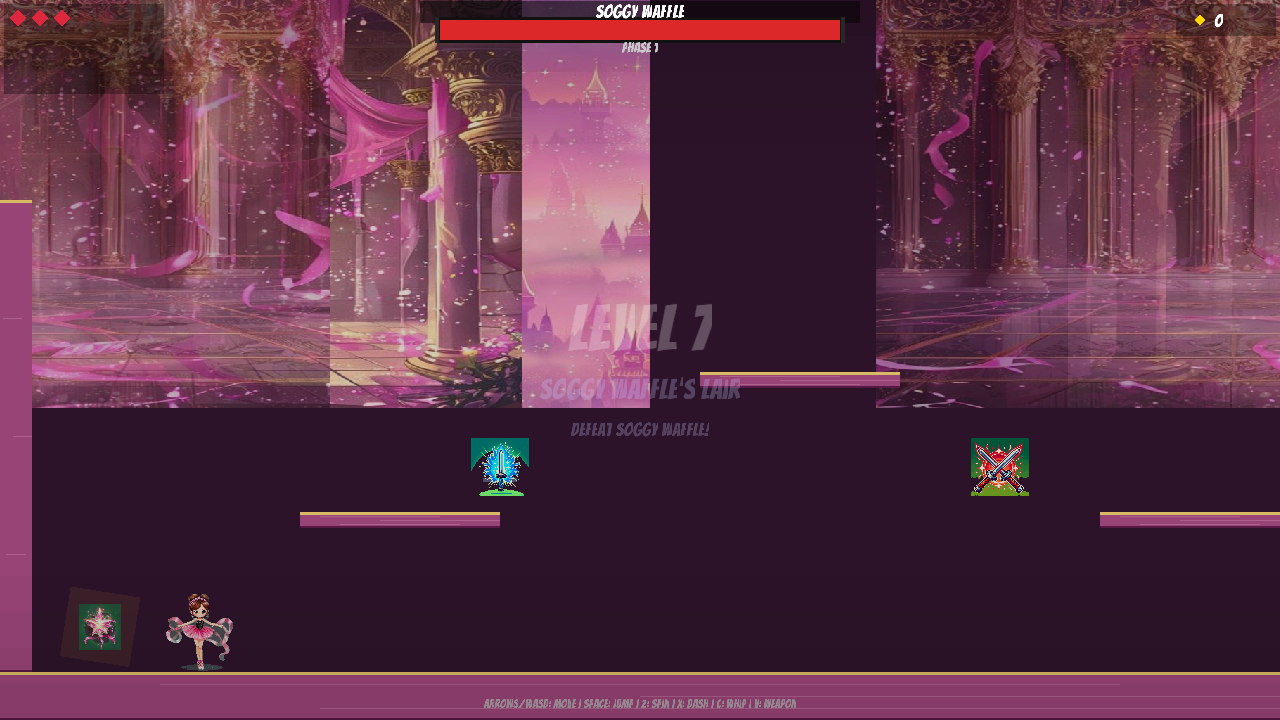
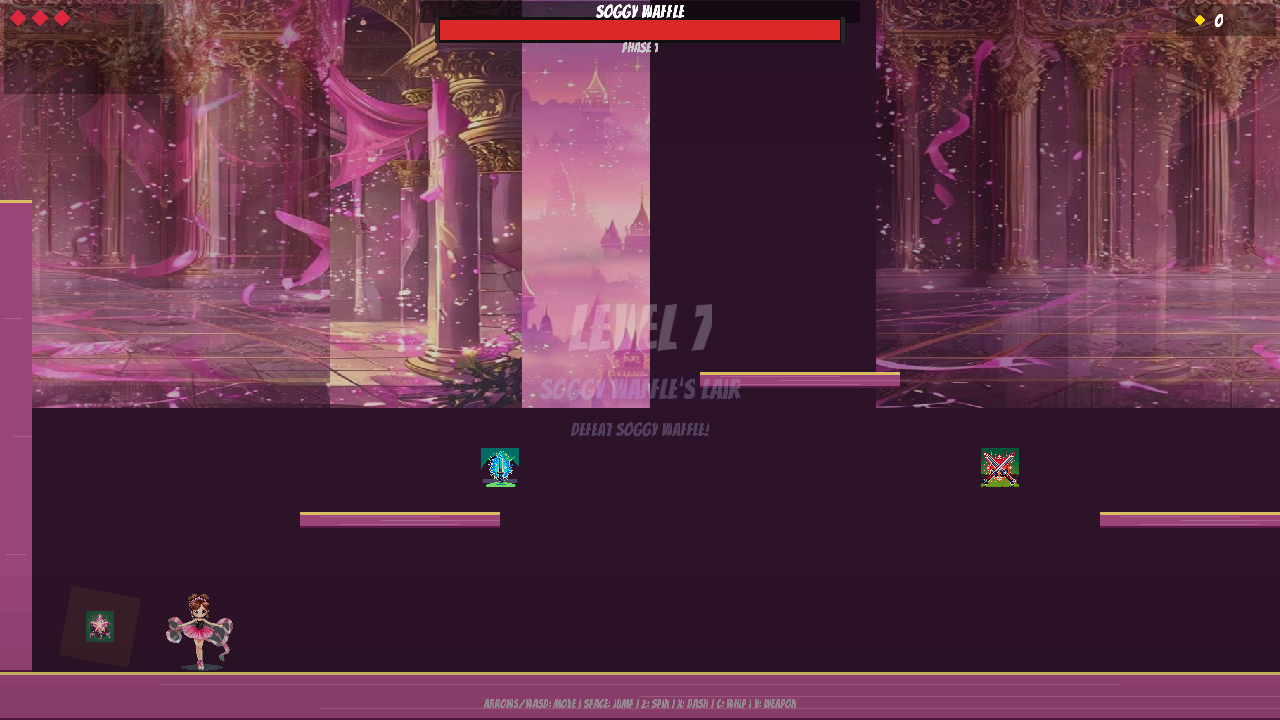
Tune down pickup sprite scales (2.4 -> 1.6) for better proportions

Changed region(s): [[0.75, 0.6111, 0.8125, 0.7028], [0.3438, 0.6111, 0.4375, 0.7028], [0.0625, 0.825, 0.0938, 0.9167]]

diff --git a/src/entities/pickups.ts b/src/entities/pickups.ts
@@ -20,7 +20,7 @@ export function createNinjaPowerup(x: number, y: number) {
     z(-1),
   ])
 
-  const ninjaScale = PICKUP.NINJA_SIZE / 1024 * 2.4
+  const ninjaScale = PICKUP.NINJA_SIZE / 1024 * 1.6
   // Desired world-space hit area, divided by entity scale so post-scale size matches
   const hitSize = (PICKUP.NINJA_SIZE * 3) / ninjaScale
   const pickup = add([
@@ -95,7 +95,7 @@ export function createSequin(x: number, y: number) {
     z(-1),
   ])
 
-  const spriteScale = sz / 1024 * 2.4
+  const spriteScale = sz / 1024 * 1.6
   // Very generous hit area in world space (4x visual), compensated for scale
   const hitSize = (sz * 4) / spriteScale
   const seq = add([
@@ -162,7 +162,7 @@ export function createRibbon(x: number, y: number) {
     z(-1),
   ])
 
-  const ribbonScale = sz / 1024 * 2.4
+  const ribbonScale = sz / 1024 * 1.6
   const rHit = (sz * 3) / ribbonScale
   const ribbon = add([
     sprite("ribbon-sprite"),
@@ -215,7 +215,7 @@ export function createWeaponPickup(x: number, y: number, weaponType: "katana" | 
   const c = weaponType === "katana" ? WEAPON.PICKUP_KATANA_COLOR : WEAPON.PICKUP_SAIS_COLOR
   const sz = WEAPON.PICKUP_SIZE
   const weaponSprite = weaponType === "katana" ? "weapon-katana-sprite" : "weapon-sais-sprite"
-  const weaponScale = sz / 1024 * 2.4
+  const weaponScale = sz / 1024 * 1.6
 
   // Glowing pedestal beneath weapon
   const pedestal = add([
